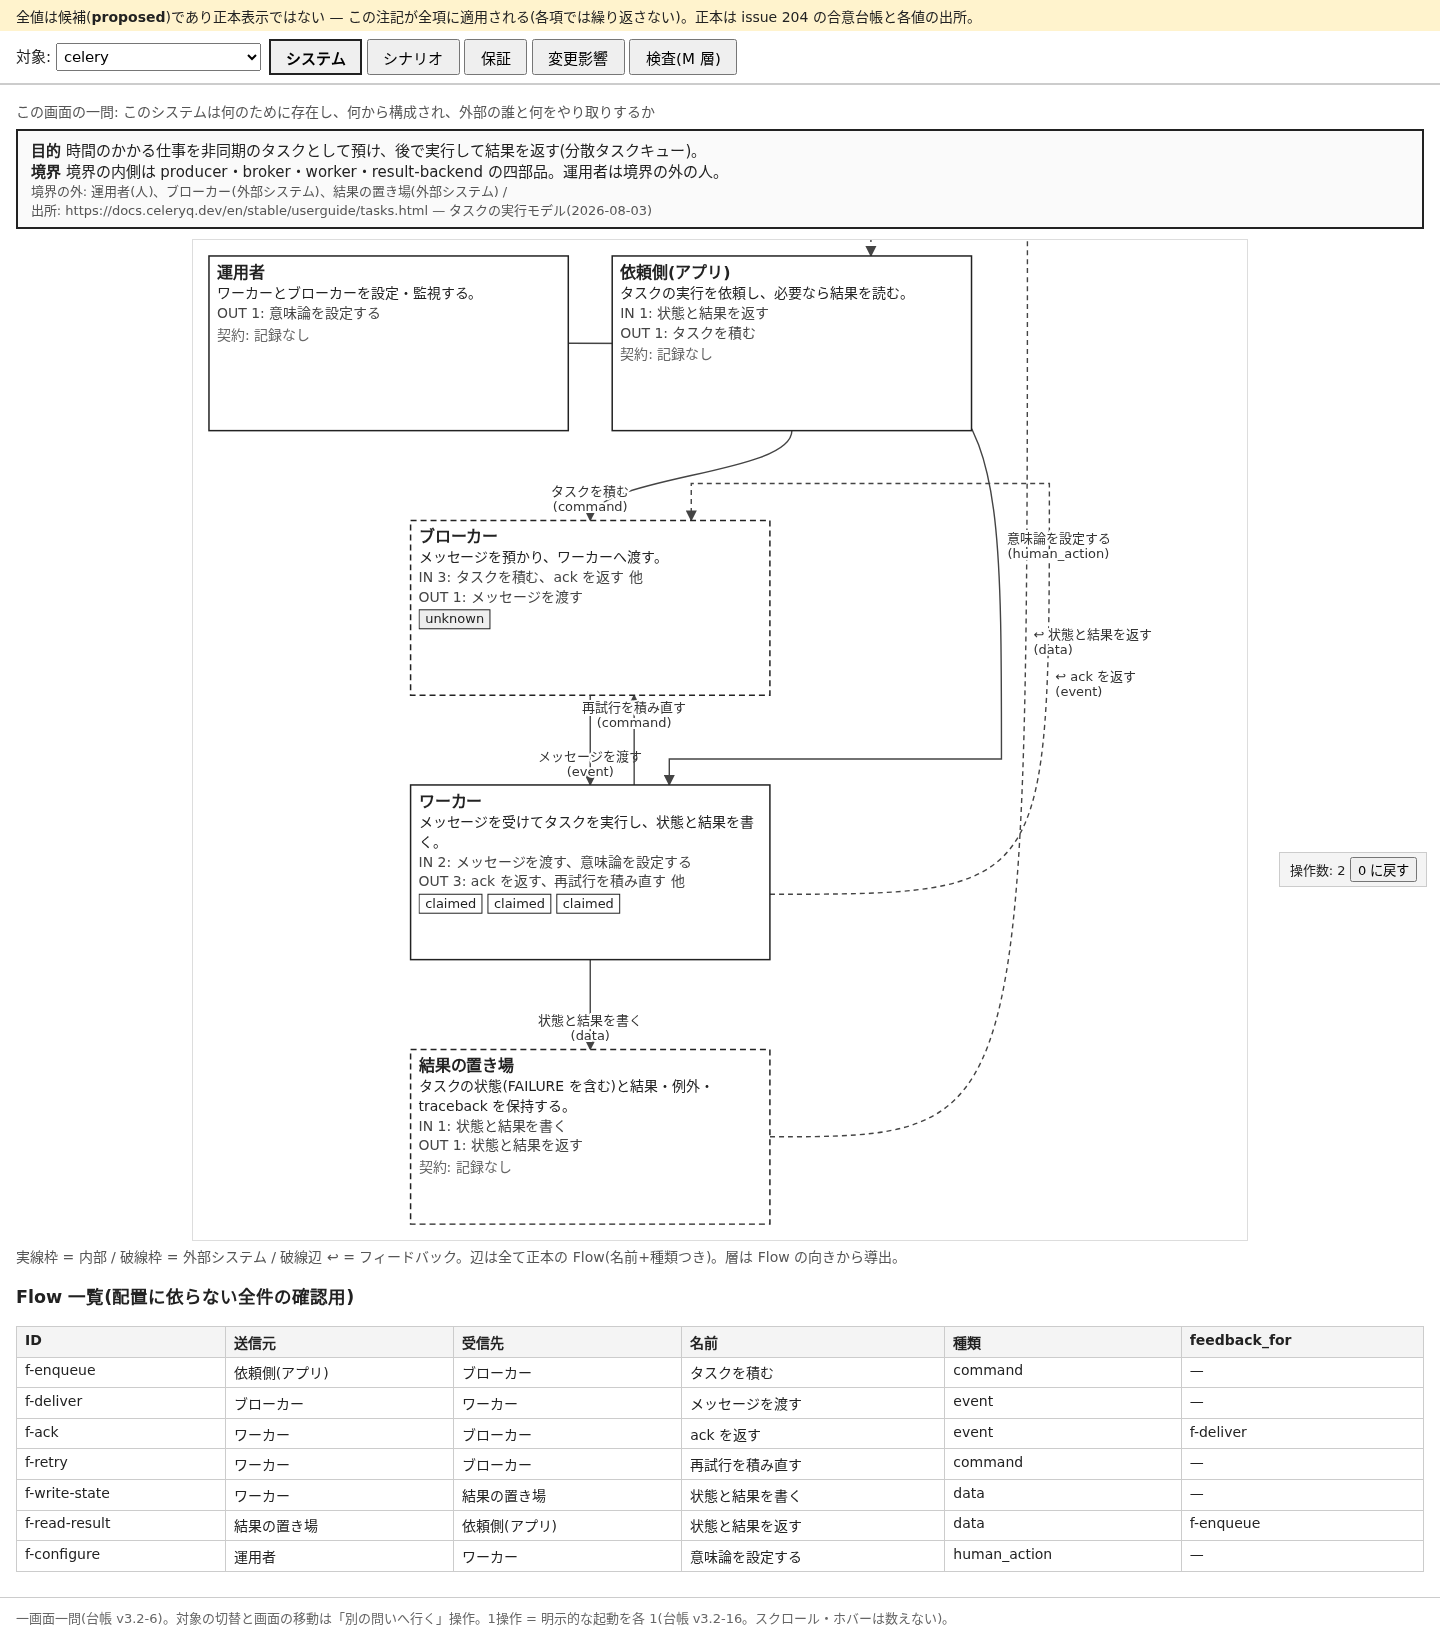
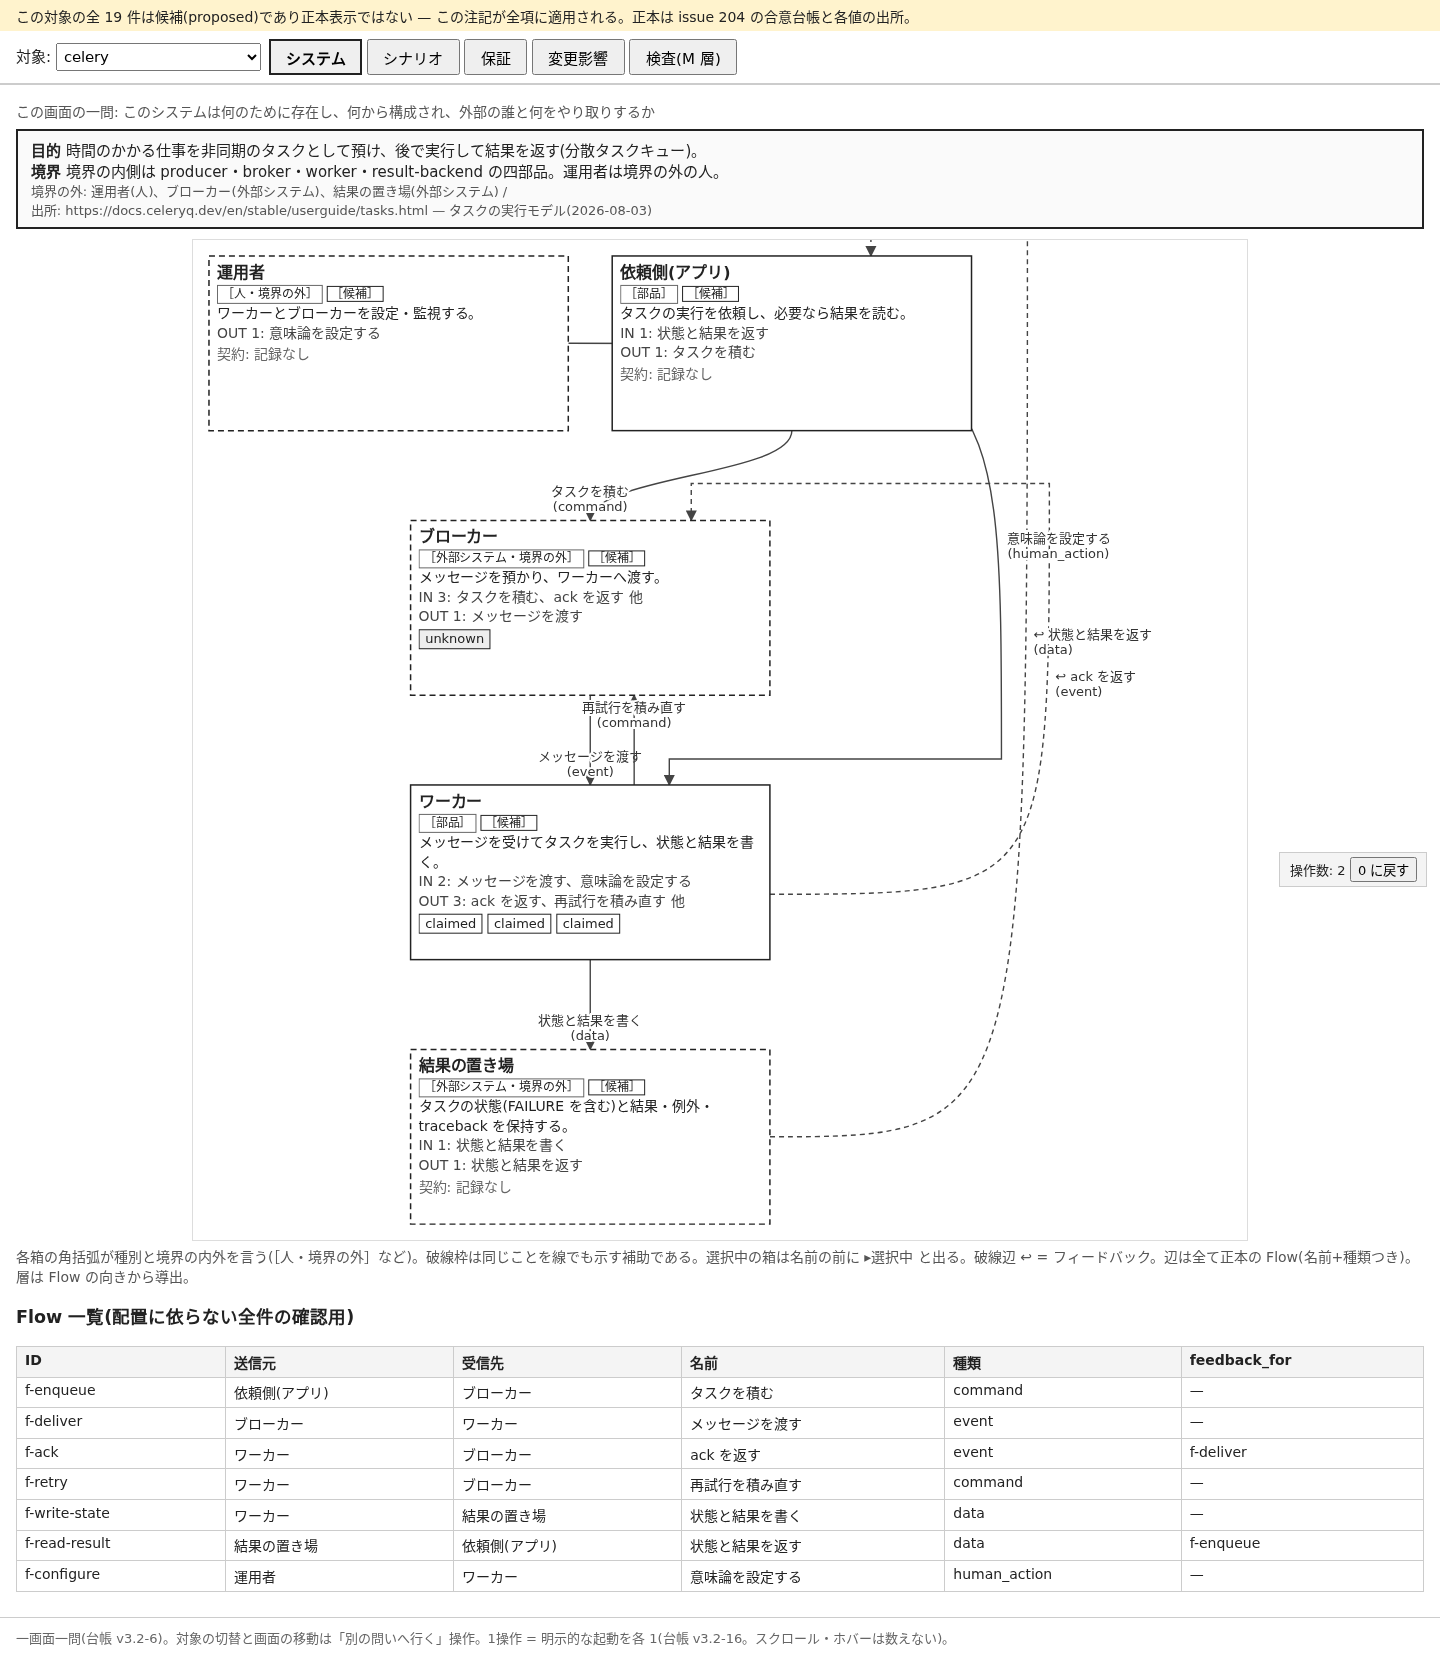
静止画を撮り直し、PR6 の作業を記録する
15 枚(overlay 変種の 12 節を追加)。何を検めていないかを併記する。

diff --git a/research/system-map/decisions/phase-2-pr6/README.md b/research/system-map/decisions/phase-2-pr6/README.md
@@ -1,0 +1,96 @@
+# PR6: UI — 機械の検証の射程どおりに語る(作業の記録)
+
+- 日付: 2026-08-10
+- 位置づけ: ADR-031(受理済)の実装。**これは実験ブランチ内の作業の記録**であり、統治木の ADR ではない。
+- 主題: 実測と候補を色以外でも分け、**機械検証の射程以上の保証を画面に書かない**。
+  主画面は構成図のまま(DESIGN-001)。表を別画面として復活させない。
+
+## 何が壊れていたか
+
+一つの形に集約できる —— **画面が、機械の言えることより強く語っていた。**
+
+| # | 何 | どこ |
+|---|---|---|
+| F1 | 走査の射程外のアンカーが黙って落ちる。実データで 9 件中 6 件がこれ | `.filter(Boolean)` |
+| F2 | `source_limits` が生成されて**どこからも読まれない**。画面は「実測」「事実」「指紋」とだけ言う | 木の全体で読み手 0 |
+| F3 | 総括の状態と作業木の状態(汚れ・浅い複製)が画面に出ない | — |
+| F4 | **`rev_state:"unknown"`(記録した rev が履歴に無い = 同一とも前進とも言えない)を「記録時 rev と同一」という肯定として印字** | 三値を二分岐で描いていた |
+| F5 | `degraded` が `measured` と同一に描かれ、`reason` が落ちる | — |
+| F6 | 6 状態のうち 4 つが画面から黙って消える | — |
+| F7 | 12 節が門より**弱い**判定をやり直しており、門が認めない `artifact` 種別を動くリンクとして出す | 画面が判定を再実装していた |
+| F8 | M-14 の表が生の英語字句へ落ち、`broken` の行は理由を出さない | — |
+| F9 | `person` は境界の外なのに実線で描かれる(表題は「外」と言っている)。`organization`/`device` は直書きの分岐から漏れて**内側**に数えられる | 自己矛盾 |
+| F10 | 状態バッジが生の英語字句 | — |
+| F11 | 候補バナーが**リテラル**。一件が確認済になっても帯だけが嘘になり、誰も気付かない | — |
+
+## RED → FIX → VERIFY
+
+| commit | 何 |
+|---|---|
+| `7a067cc` | 表示の語を正本へ(`policy.display`)。読み込み時に全単射を検める |
+| `924b97b` | 段 `display-static`・`browser-display` と不変条件 M-19・M-20 を登録。**20 件の所見で赤** |
+| `3fadabc` | 画面の実装一式 + `index.html` を作り直す |
+| `1497a47` | 実測 overlay の画面を一枚撮る計画を足す |
+
+生ログ: `logs/RED-display.log`。
+
+**「詳細は 12 節のまま・畳んだ中身を作らない」は最初から緑だった。** これは欠陥の再現では
+なく回帰の門である。潰すと赤くなることは変異表で実測した(下記)。
+
+## 抽出器が自分を疑った話
+
+`display-static` の走査は、最初「到達の状態」を 3 語しか採れずに **ERROR で止まった**
+(下線を字の集合へ入れ忘れ、`not_applicable` を落としていた)。件数の下限を置いて
+FAIL ではなく ERROR にしていたので気付けた —— **採れなかった回を、合っていた回に
+化けさせない**。3 語のまま「一致」と読んでいたら、欠落は緑の中に埋まっていた。
+
+## 決めたこと
+
+| 決めた | なぜ |
+|---|---|
+| 表示の語を `policy.display` へ。読み込み時に全単射 | 足りないのも余っているのも「表と語彙が別々に動いている」印である |
+| 描画は全域関数。未知の語は `unknown_token` へ落とし、**語をそのまま出す** | 画面は生成器の将来の語彙を数えられない。数えられないことを、数えたふりで隠さない |
+| 画面は判定器の出力を写す。**判定をやり直さない** | 二重実装は必ず片方が緩む。実際、画面は門が認めない種別をリンクにしていた |
+| 判定の行は id と判定と理由だけ持つ | 中身を写すと同じ事実が二箇所になる。実際、写した版では上流の走査が生成物の中に印らしい綴りを一つ余計に数えた |
+| 帯をデータから作る | 字で書くと、一件が確認済になった日に帯だけが嘘になる |
+| **確認済だけを写した正本表示は作らない** | 一度も動かない投影を作ることは、それ自体が未検証の主張になる。代わりに検査画面で「まだ一度も検められていない」と明示する |
+| 何も `confirmed` へ昇格させない | M-07b は確認済が一件でも現れた瞬間に FAIL する(投影が無いため)。昇格は所有者判断でもある |
+| 架空の対象は出荷を続け、**画面が架空と言う** | 役割を外すと `shoot.mjs` と H 層 T6 が成果物から消える。出荷の是非は所有者判断として残す |
+| 了解の記録を画面に出す | `verify.mjs` は console に出していたが、画面の利用者は緑の意味を読めなかった |
+
+## 操作数(台帳 v3.2-16)
+
+**一つも増やしていない。** 上位要素 2・入れ子 3 のまま。入れ子は既に上限であり、
+`#detail` に `<details>` を一つ置くだけで超える。構造で守り、変異で発火を実測した。
+`policy.ui_structure` と `policy.max_ops` は変えていない。
+
+## 検証(2026-08-10・`--today 2026-08-10`)
+
+| 段 | 終了コード | 件数 |
+|---|---|---|
+| 全 13 段(`verify.mjs`) | 0 | PASS 71 / FAIL 0 / VACUOUS 18 / SKIP 0 / ERROR 0 |
+| `display-static` | 0 | 語彙の突き合わせ 7 件 |
+| `browser-display` | 0 | 状態の掃引 13 件・語での区別 6 件 |
+| `test-mutation.mjs` | 0 | 潰し 11 個(新規 4 個) |
+| `npm run typecheck` / `test` / `compile` | 0 | 試験 264 件 |
+| `docs:check` / `lint` / `terms` / `measured` | 0 | error 0 / warn 0 |
+| `npm run package` | 0 | 12 ファイル / 113.26 KB |
+
+**了解の記録は 16 件のまま増えていない。** 新しい検査器は生成物(`index.html`)を対象と
+するので、対象ごとの VACUOUS を作らずに済んだ。
+
+## この緑が保証していないこと
+
+- **了解の記録 18 件については何も検めていない。** 2026-11-09 に一斉に期限切れ。
+- **M-07b はまだ一度も検められていない。** 確認済の実体が無く、確認済だけを写した
+  正本表示も実装していない。画面はこの欠落を**明示するようになった**が、欠落は残る。
+- **`display-static` は字面の走査である。** 生成器の綴りから語を採る規則は狭く、
+  綴り方を変えれば採れなくなる(下限と ERROR がその番人だが、番人も字面である)。
+- **出荷する `index.html` は overlay を同梱しない。** 実測の表示は
+  `--overlay-dir` を渡した変種でしか出ない。静止画にもそう明記した。
+- **H 層は `UNASSESSED`。** 語で分けたことが読み手に伝わるかは、機械では答えられない。
+  `human_validation: UNASSESSED — independent participant unavailable`
+- **架空の対象は依然 VSIX に出荷される。** 画面が架空と言うようになっただけで、
+  捏造データが配布物に入る事実は変わっていない —— 所有者判断として #212 へ上げる。
+- 色以外でも分けたが、**色覚・単色印刷での実地確認はしていない**(語が在ることを
+  機械で確かめただけである)。
